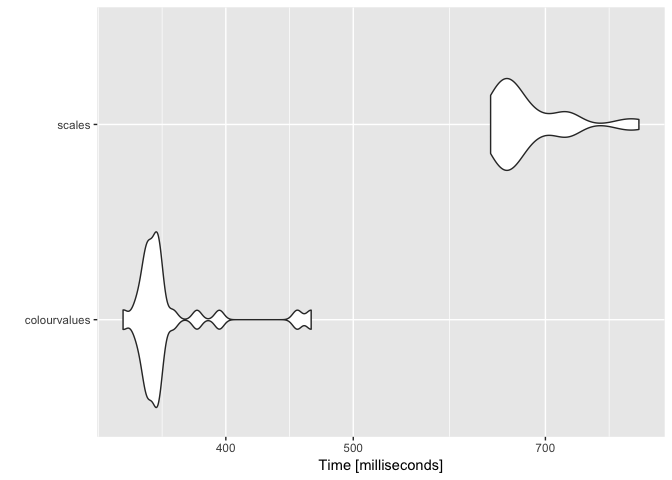
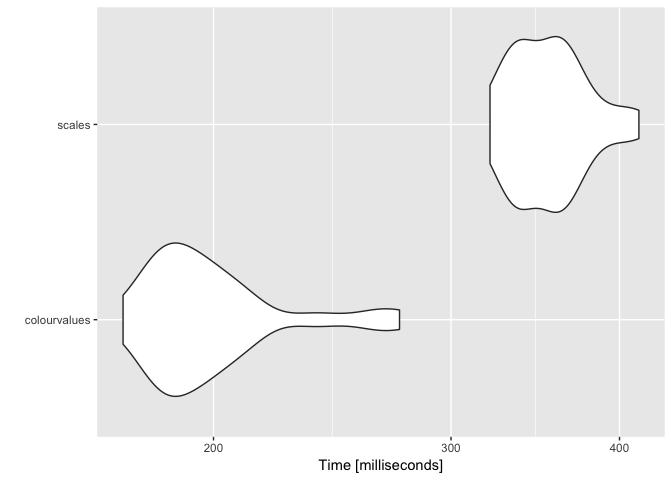
readme

diff --git a/README.md b/README.md
@@ -262,9 +262,9 @@ m <- microbenchmark(
 )
 m
 # Unit: seconds
-#          expr      min       lq     mean   median       uq       max neval
-#  colourvalues 3.379120 4.288701 4.561132 4.491353 4.925689  6.563919    25
-#        scales 6.368541 6.572796 7.999677 8.565267 9.036532 10.516685    25
+#          expr      min       lq     mean   median       uq      max neval
+#  colourvalues 1.650813 1.688667 1.764329 1.761870 1.820108 1.984648    25
+#        scales 2.931549 3.087972 3.178309 3.133891 3.249300 3.657932    25
 
 autoplot(m)
 # Coordinate system already present. Adding new coordinate system, which will replace the existing one.
@@ -292,8 +292,8 @@ m <- microbenchmark(
 m
 # Unit: milliseconds
 #          expr      min       lq     mean   median       uq      max neval
-#  colourvalues 334.1250 348.3973 362.4838 354.1611 356.3841 464.4726    25
-#        scales 635.9375 648.6532 680.7516 663.0456 691.0620 824.5088    25
+#  colourvalues 171.3805 183.8710 199.6419 191.7212 206.3815 274.7522    25
+#        scales 320.6524 335.9726 354.6676 353.4846 364.7990 413.4517    25
 
 autoplot(m)
 # Coordinate system already present. Adding new coordinate system, which will replace the existing one.
